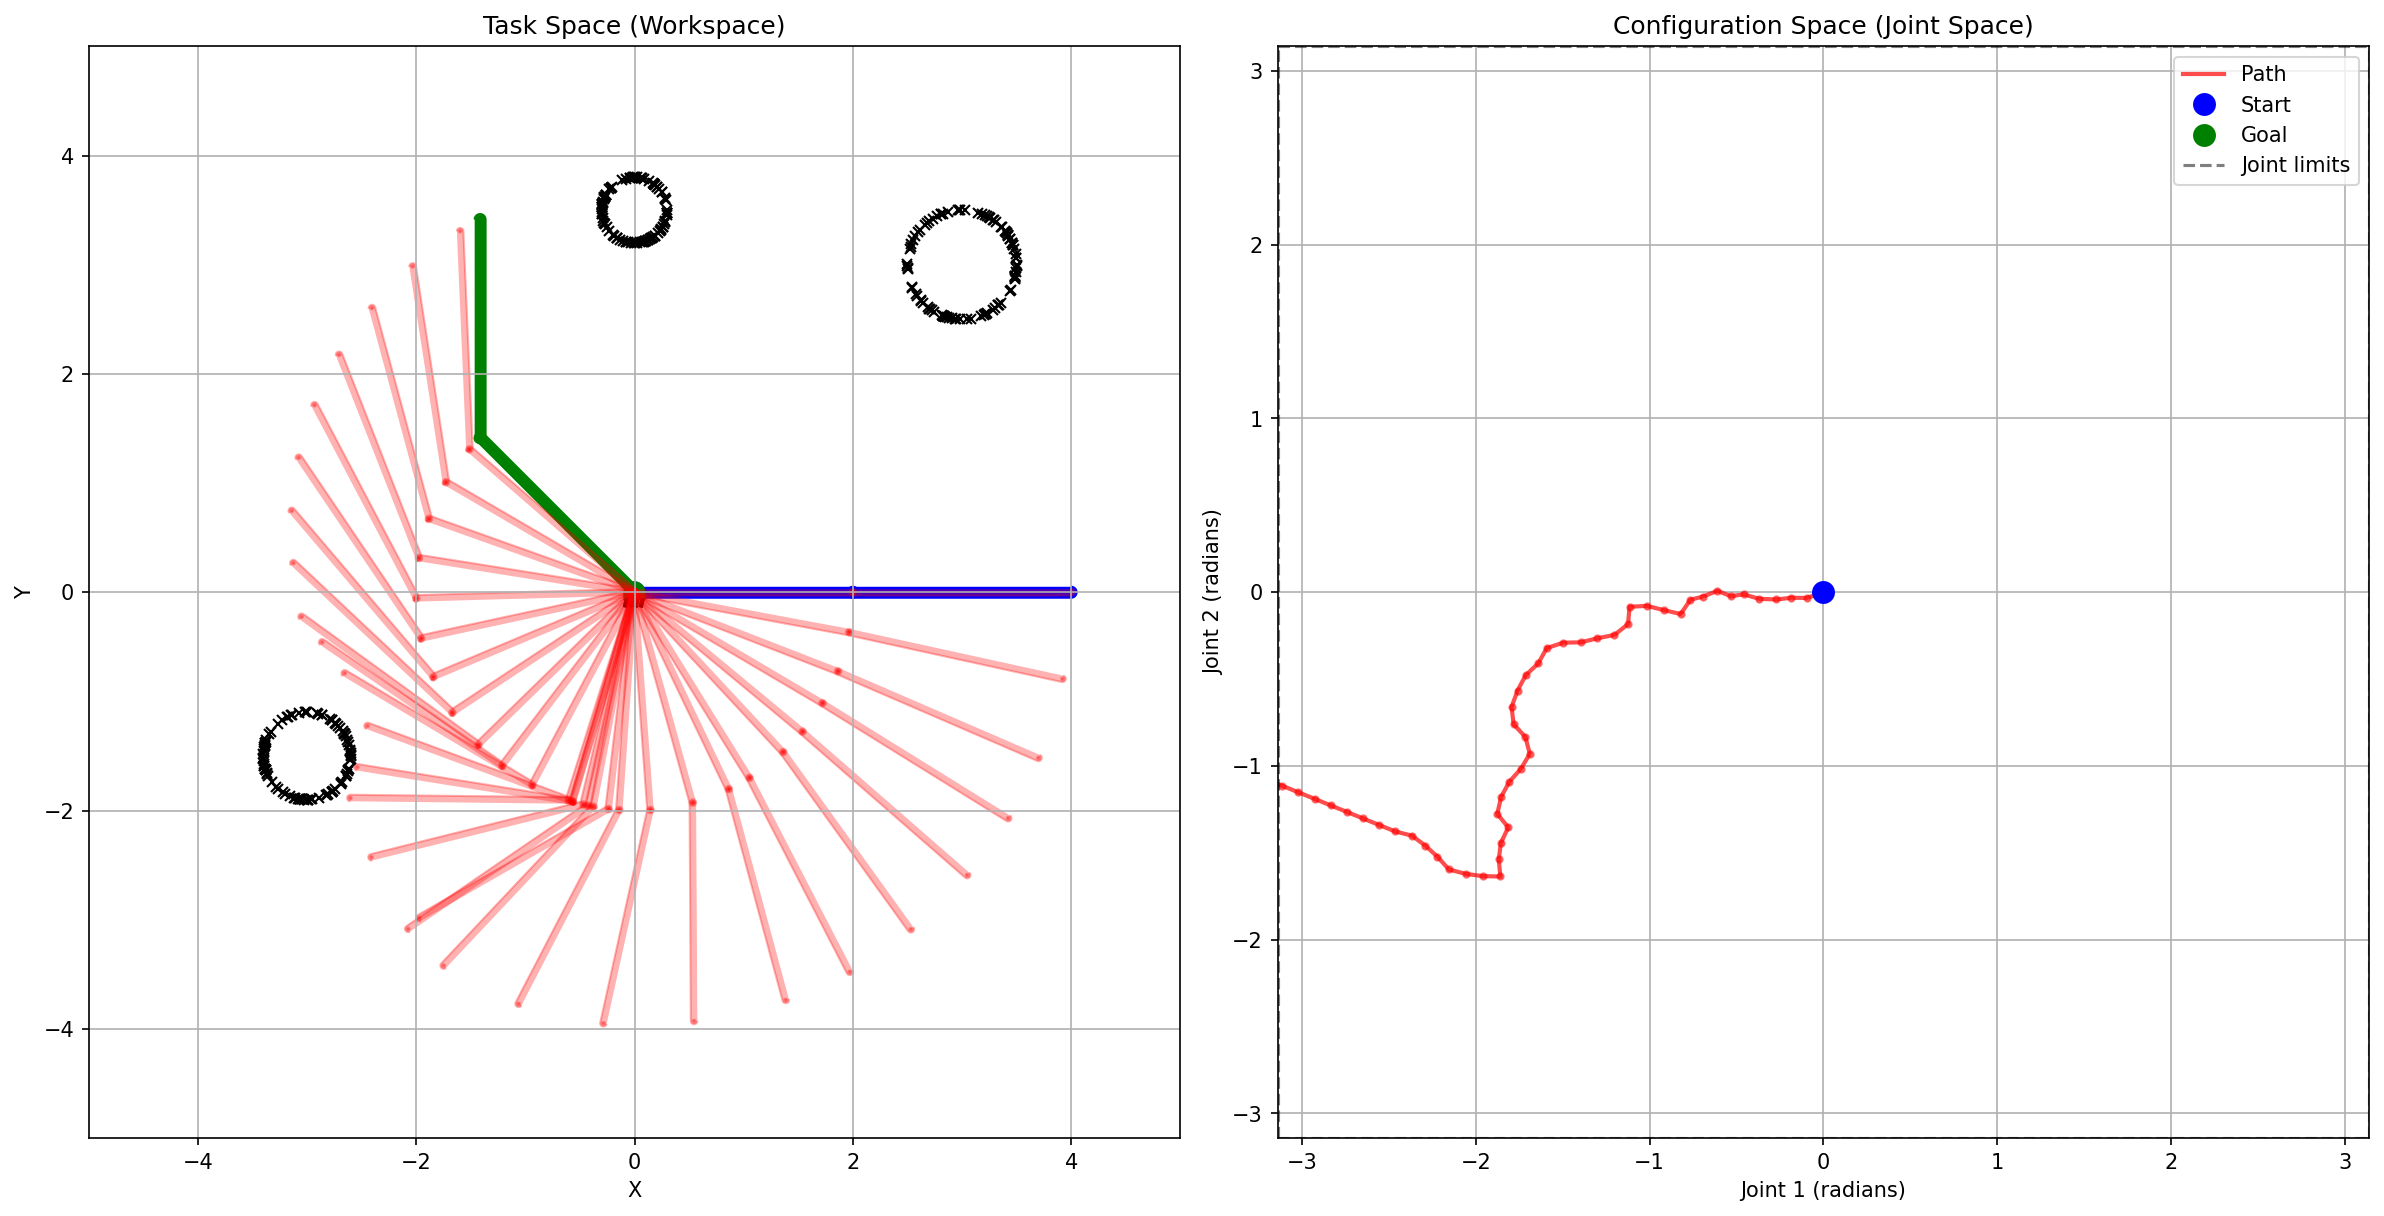
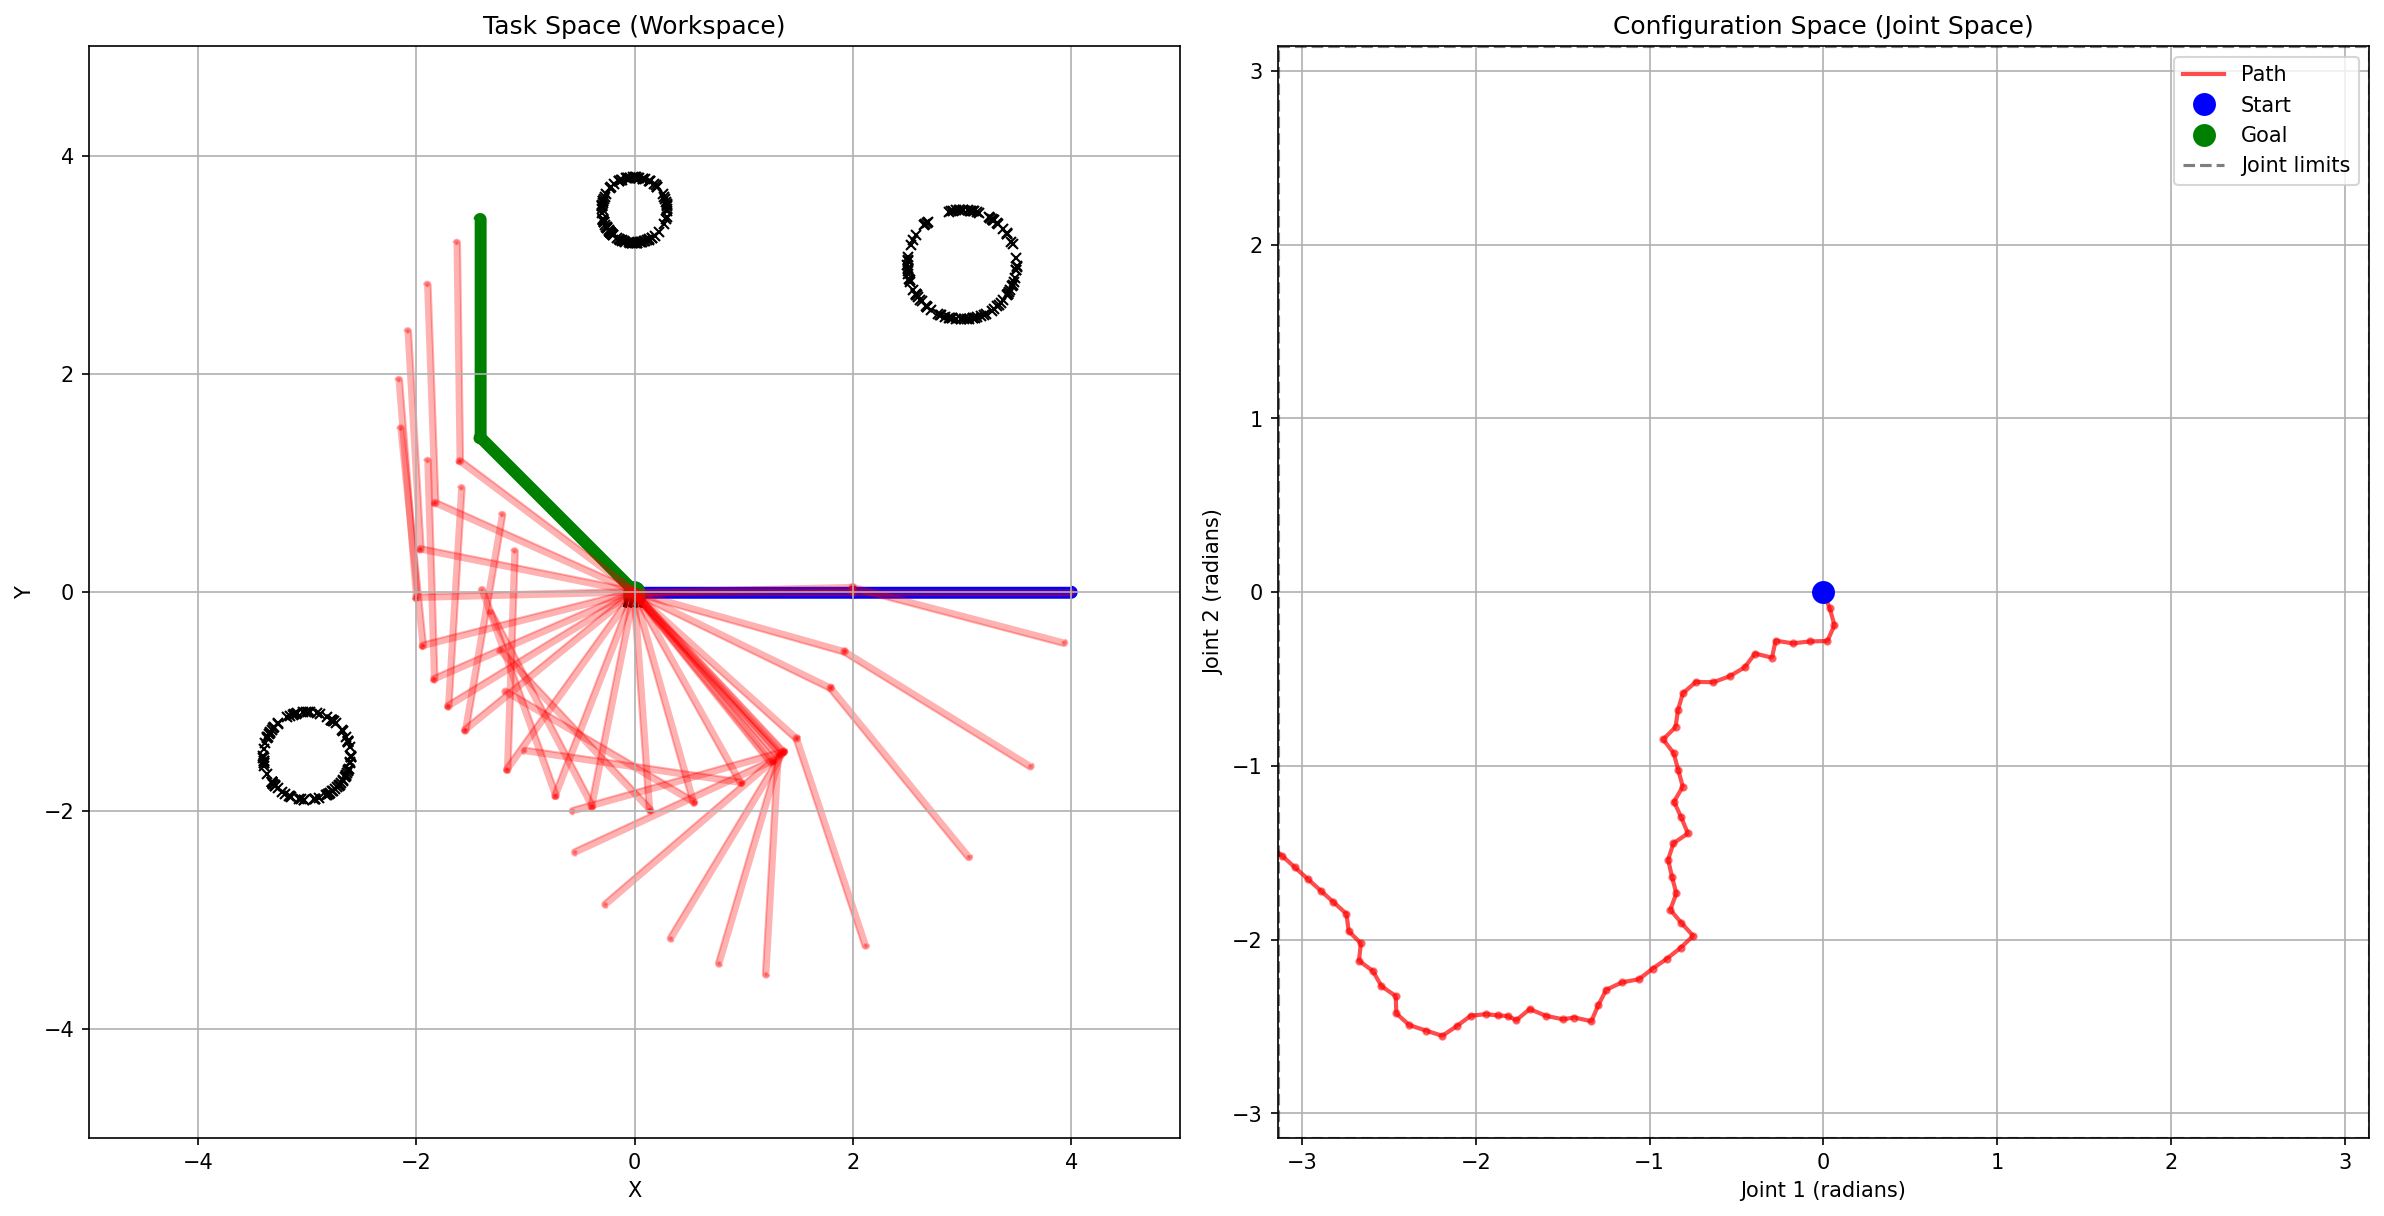
comparison of analytic and neural

diff --git a/compare_analytical_neural.py b/compare_analytical_neural.py
@@ -1,0 +1,249 @@
+# Add cdf/2Dexamples to path
+import sys
+import os
+script_dir = os.path.dirname(os.path.realpath(__file__))
+script_dir = script_dir + "/cdf" + "/2Dexamples"
+sys.path.append(script_dir)
+
+
+import robot_plot2D
+import torch
+import math
+from cdf import CDF2D
+from primitives2D_torch import Circle
+from nn_cdf import Train_CDF, inference
+import os
+import numpy as np
+import matplotlib.pyplot as plt
+import matplotlib.gridspec as gridspec
+
+from mlp import MLPRegression
+from tqdm import tqdm
+
+device = torch.device("cuda" if torch.cuda.is_available() else "cpu")
+
+train_cdf = Train_CDF(device)
+# train_cdf.train(input_dim=4, 
+#           hidden_dim=[256, 256, 128, 128, 128], 
+#           output_dim=1, 
+#           activate=torch.nn.ReLU, 
+#           batch_size=100,
+#           learning_rate=0.01, 
+#           weight_decay=1e-5, 
+#           save_path='./2Dexamples', 
+#           device=device,
+#       epochs=1000)
+
+
+
+net = torch.load(os.path.join(script_dir, 'model.pth'), weights_only=False)
+net.eval()
+
+obstacles = [
+    # Circle(center=torch.tensor([-3.0, -1.0]), radius=0.01, device=device),
+    # Circle(center=torch.tensor([-3.0, 0.0]), radius=0.01, device=device),
+    # Circle(center=torch.tensor([-3.0, 1.0]), radius=0.01, device=device),
+    # Circle(center=torch.tensor([-2.0, -2.0]), radius=0.01, device=device),
+    Circle(center=torch.tensor([-2.0, -1.0]), radius=0.01, device=device),
+    # Circle(center=torch.tensor([-2.0, 0.0]), radius=0.01, device=device),
+    # Circle(center=torch.tensor([-2.0, 1.0]), radius=0.01, device=device),
+    # Circle(center=torch.tensor([-2.0, 2.0]), radius=0.01, device=device),
+    # Circle(center=torch.tensor([-1.0, -3.0]), radius=0.01, device=device),
+    # Circle(center=torch.tensor([-1.0, -2.0]), radius=0.01, device=device),
+    # Circle(center=torch.tensor([-1.0, -1.0]), radius=0.01, device=device),
+    # Circle(center=torch.tensor([-1.0, 0.0]), radius=0.01, device=device),
+    # Circle(center=torch.tensor([-1.0, 1.0]), radius=0.01, device=device),
+    # Circle(center=torch.tensor([-1.0, 2.0]), radius=0.01, device=device),
+    # Circle(center=torch.tensor([-1.0, 3.0]), radius=0.01, device=device),
+    # Circle(center=torch.tensor([0.0, -4.0]), radius=0.01, device=device),
+    # Circle(center=torch.tensor([0.0, -3.0]), radius=0.01, device=device),
+    # Circle(center=torch.tensor([0.0, -2.0]), radius=0.01, device=device),
+    # Circle(center=torch.tensor([0.0, -1.0]), radius=0.01, device=device),
+    # Circle(center=torch.tensor([0.0, 0.0]), radius=0.01, device=device),
+    # Circle(center=torch.tensor([0.0, 1.0]), radius=0.01, device=device),
+    # Circle(center=torch.tensor([0.0, 2.0]), radius=0.01, device=device),
+    # Circle(center=torch.tensor([0.0, 3.0]), radius=0.01, device=device),
+    # Circle(center=torch.tensor([0.0, 4.0]), radius=0.01, device=device),
+    # Circle(center=torch.tensor([1.0, -3.0]), radius=0.01, device=device),
+    # Circle(center=torch.tensor([1.0, -2.0]), radius=0.01, device=device),
+    # Circle(center=torch.tensor([1.0, -1.0]), radius=0.01, device=device),
+    # Circle(center=torch.tensor([1.0, 0.0]), radius=0.01, device=device),
+    # Circle(center=torch.tensor([1.0, 1.0]), radius=0.01, device=device),
+    # Circle(center=torch.tensor([1.0, 2.0]), radius=0.01, device=device),
+    # Circle(center=torch.tensor([1.0, 3.0]), radius=0.01, device=device),
+    # Circle(center=torch.tensor([2.0, -2.0]), radius=0.01, device=device),
+    # Circle(center=torch.tensor([2.0, -1.0]), radius=0.01, device=device),
+    # Circle(center=torch.tensor([2.0, 0.0]), radius=0.01, device=device),
+    # Circle(center=torch.tensor([2.0, 1.0]), radius=0.01, device=device),
+    # Circle(center=torch.tensor([2.0, 2.0]), radius=0.01, device=device),
+    # Circle(center=torch.tensor([3.0, -1.0]), radius=0.01, device=device),
+    # Circle(center=torch.tensor([3.0, 0.0]), radius=0.01, device=device),
+    # Circle(center=torch.tensor([3.0, 1.0]), radius=0.01, device=device),
+]
+obstacle_points = []
+samples = 1
+for obs in obstacles:
+    points = obs.sample_surface(samples)
+    obstacle_points.append(points)
+obstacle_points = torch.cat(obstacle_points, dim=0)
+
+# obstacle_points = torch.tensor(
+#     [
+#         # [0.0,-2.0],
+#         # [0.0,3.5],
+#         [2.0, 2.0],
+#     ],
+#     device=device
+# )
+
+### Plotting the obstacle points
+plt.xlim(-4, 4)
+plt.ylim(-4, 4)
+### Draw circle of radius 4 at center
+circle = plt.Circle((0, 0), 4, color='black', fill=False, linestyle='--')
+plt.gca().add_artist(circle)
+
+plt.scatter(obstacle_points[:, 0].cpu().numpy(), obstacle_points[:, 1].cpu().numpy(), s=1)
+plt.title('Obstacle Surface Points')
+plt.xlabel('x')
+plt.ylabel('y')
+# plt.axis('equal')
+plt.show()
+
+n = train_cdf.cdf.nbData
+q = train_cdf.cdf.create_grid_torch(n).to(device)
+q.requires_grad = True
+
+q_proj = q.clone()
+for i in range(100):
+    c_dist, grad = inference(obstacle_points, q_proj, net)
+    c_dist = c_dist.reshape(len(obstacle_points), n, n)
+    c_dist_min, min_idx = c_dist.min(dim=0)
+
+    grad = grad.reshape(len(obstacle_points), n, n, 2)
+    grad = grad.permute(1, 2, 0, 3)  # (n, n, len(obstacle_points), 2)
+    min_idx_exp = min_idx.unsqueeze(-1).unsqueeze(-1).expand(-1, -1, 1, 2)
+    grad_min = grad.gather(2, min_idx_exp).squeeze(2)
+
+    q_proj = train_cdf.cdf.projection(
+        q_proj,
+        c_dist_min.reshape(-1),
+        grad_min.reshape(-1, 2),
+    )
+    q_proj = ((q_proj+np.pi) % (2*np.pi)) - np.pi  # Wrap around to keep within [-pi, pi]
+    # print(q_proj.shape)
+# plot
+
+import matplotlib.pyplot as plt
+c_dist_raw, grad = inference(obstacle_points, q, net)
+c_dist_reordered = c_dist_raw.reshape(len(obstacle_points), n, n)
+c_dist = c_dist_reordered.min(dim=0)[0]
+plt.contourf(q[:,0].detach().cpu().numpy().reshape(n,n), q[:,1].detach().cpu().numpy().reshape(n,n), c_dist.cpu().detach().numpy().reshape(n,n), levels=20)
+plt.scatter(q_proj[:,0].detach().cpu().numpy(), q_proj[:,1].detach().cpu().numpy(), c='r', s=1)
+plt.title('CDF')
+plt.xlabel('x')
+plt.ylabel('y')
+plt.show()
+
+# Plot q_proj in task space with obstacle points - draw full robots
+obs_np = obstacle_points.detach().cpu().numpy()
+fig, ax = plt.subplots(figsize=(8,8))
+ax.scatter(obs_np[:,0], obs_np[:,1], s=50, c='blue', label='obstacle points', marker='x')
+
+# Sample a subset of q_proj configurations to avoid overcrowding
+subset_indices = torch.randperm(len(q_proj))[:100]  # random 100 configurations
+# for i in subset_indices:
+#     q_config = q_proj[i].unsqueeze(0).detach().cpu().numpy()
+robot_plot2D.plot_2d_manipulators(joint_angles_batch=q_proj[subset_indices].detach().cpu().numpy(), ax=ax, color='red', show_start_end=False, show_eef_traj=False, alpha=0.1)
+
+ax.set_title('Projected configurations in task space')
+ax.set_xlabel('x')
+ax.set_ylabel('y')
+ax.axis('equal')
+ax.legend()
+plt.show()
+
+
+
+
+
+
+# device = torch.device("cuda:0" if torch.cuda.is_available() else "cpu")
+cdf = CDF2D(device)
+
+# fig, ax = plt.subplots(figsize=(10, 8))  # Create the third plot
+
+cdf.plot_cdf(ax,obstacles)
+q_proj_analytic = q.clone()
+for i in range(1000):
+    c_dist, grad = cdf.calculate_cdf(q_proj_analytic, obstacles, "online_computation", return_grad=True)
+    
+    # c_dist shape: (num_queries,), grad shape: (num_queries, 2)
+    q_proj_analytic = q_proj_analytic - 0.1 * c_dist.unsqueeze(-1) * grad  # Gradient descent step with learning rate
+
+# Plot q_proj_analytic in task space with obstacle points - draw full robots (analytical CDF)
+obs_np = obstacle_points.detach().cpu().numpy()
+# fig, ax = plt.subplots(figsize=(8,8))
+# ax.scatter(obs_np[:,0], obs_np[:,1], s=50, c='blue', label='obstacle points', marker='x')
+
+# Sample a subset of q_proj_analytic configurations to avoid overcrowding
+subset_indices_cdf = torch.randperm(len(q_proj_analytic))[:100]  # random 100 configurations
+robot_plot2D.plot_2d_manipulators(joint_angles_batch=q_proj_analytic[subset_indices_cdf].detach().cpu().numpy(), ax=ax, color='green', show_start_end=False, show_eef_traj=False, alpha=0.1)
+
+ax.set_title('Analytical CDF Projected configurations in task space')
+ax.set_xlabel('x')
+ax.set_ylabel('y')
+ax.axis('equal')
+ax.legend()
+plt.show()
+
+d_result = cdf.calculate_cdf(cdf.Q_grid.clone().detach().requires_grad_(True), obstacles, "online_computation", return_grad=True)
+d = d_result[0].detach().cpu().numpy()
+grad = d_result[1].detach().cpu().numpy()
+
+# Create a new figure for C-space CDF plot
+fig, ax = plt.subplots(figsize=(10, 8))
+ax.set_aspect('equal', 'box')  # Make sure the pixels are square
+ax.set_xlim(-np.pi, np.pi)
+ax.set_ylim(-np.pi, np.pi) 
+
+ax.set_title('Configuration space', size=30)  # Add a title to your plot
+ax.set_xlabel('q1', size=20)
+ax.set_ylabel('q2', size=20)
+axis_limits = (-np.pi, np.pi)  # Set the limits for both axes to be the same
+ax.set_xlim(axis_limits)
+ax.set_ylim(axis_limits)
+ax.tick_params(axis='both', labelsize=20)
+
+# ax.contour(cdf.q0, cdf.q1, d.reshape(cdf.nbData, cdf.nbData), levels=[0], linewidths=6, colors='black', alpha=1.0)
+ct = ax.contourf(cdf.q0, cdf.q1, d.reshape(cdf.nbData, cdf.nbData), levels=8, linewidths=1, cmap='coolwarm')
+# ax.clabel(ct, inline=False, fontsize=15, colors='black', fmt='%.1f')
+ax.scatter(q_proj_analytic[:, 0].detach().cpu().numpy(), q_proj_analytic[:, 1].detach().cpu().numpy(), c='green', s=5, alpha=0.6, label='CDF projections')
+ax.legend(fontsize=12)
+
+plt.show()
+
+
+fig, ax = plt.subplots(figsize=(10, 8))
+### Set x and y limits to be +- pi, and make sure the aspect ratio is equal
+ax.set_aspect('equal', 'box')  # Make sure the pixels are square
+ax.set_xlim(-np.pi, np.pi)
+ax.set_ylim(-np.pi, np.pi) 
+title = ""
+for i, obs in enumerate(obstacles):
+    title += f"C{i}: {obs.center.cpu().numpy()}, R{i}: {obs.radius}, "
+
+ax.legend(fontsize=12)
+ax.set_title(title, size=10) # Add a title to your plot
+ax.scatter(q_proj[:, 0].detach().cpu().numpy(), q_proj[:, 1].detach().cpu().numpy(), c='red', s=5, alpha=0.6, label='NN CDF projections')
+ax.scatter(q_proj_analytic[:, 0].detach().cpu().numpy(), q_proj_analytic[:, 1].detach().cpu().numpy(), c='green', s=5, alpha=0.6, label='CDF projections')
+ax.legend(fontsize=12)
+### Save figure to dir figs, and ensure figure has unique
+figs_dir = "./figs"
+os.makedirs(figs_dir, exist_ok=True)
+num = os.listdir(figs_dir)
+fig_path = os.path.join(figs_dir, f'projection_plot_{len(num)}.png')
+fig.savefig(fig_path)
+plt.show()
+
+
